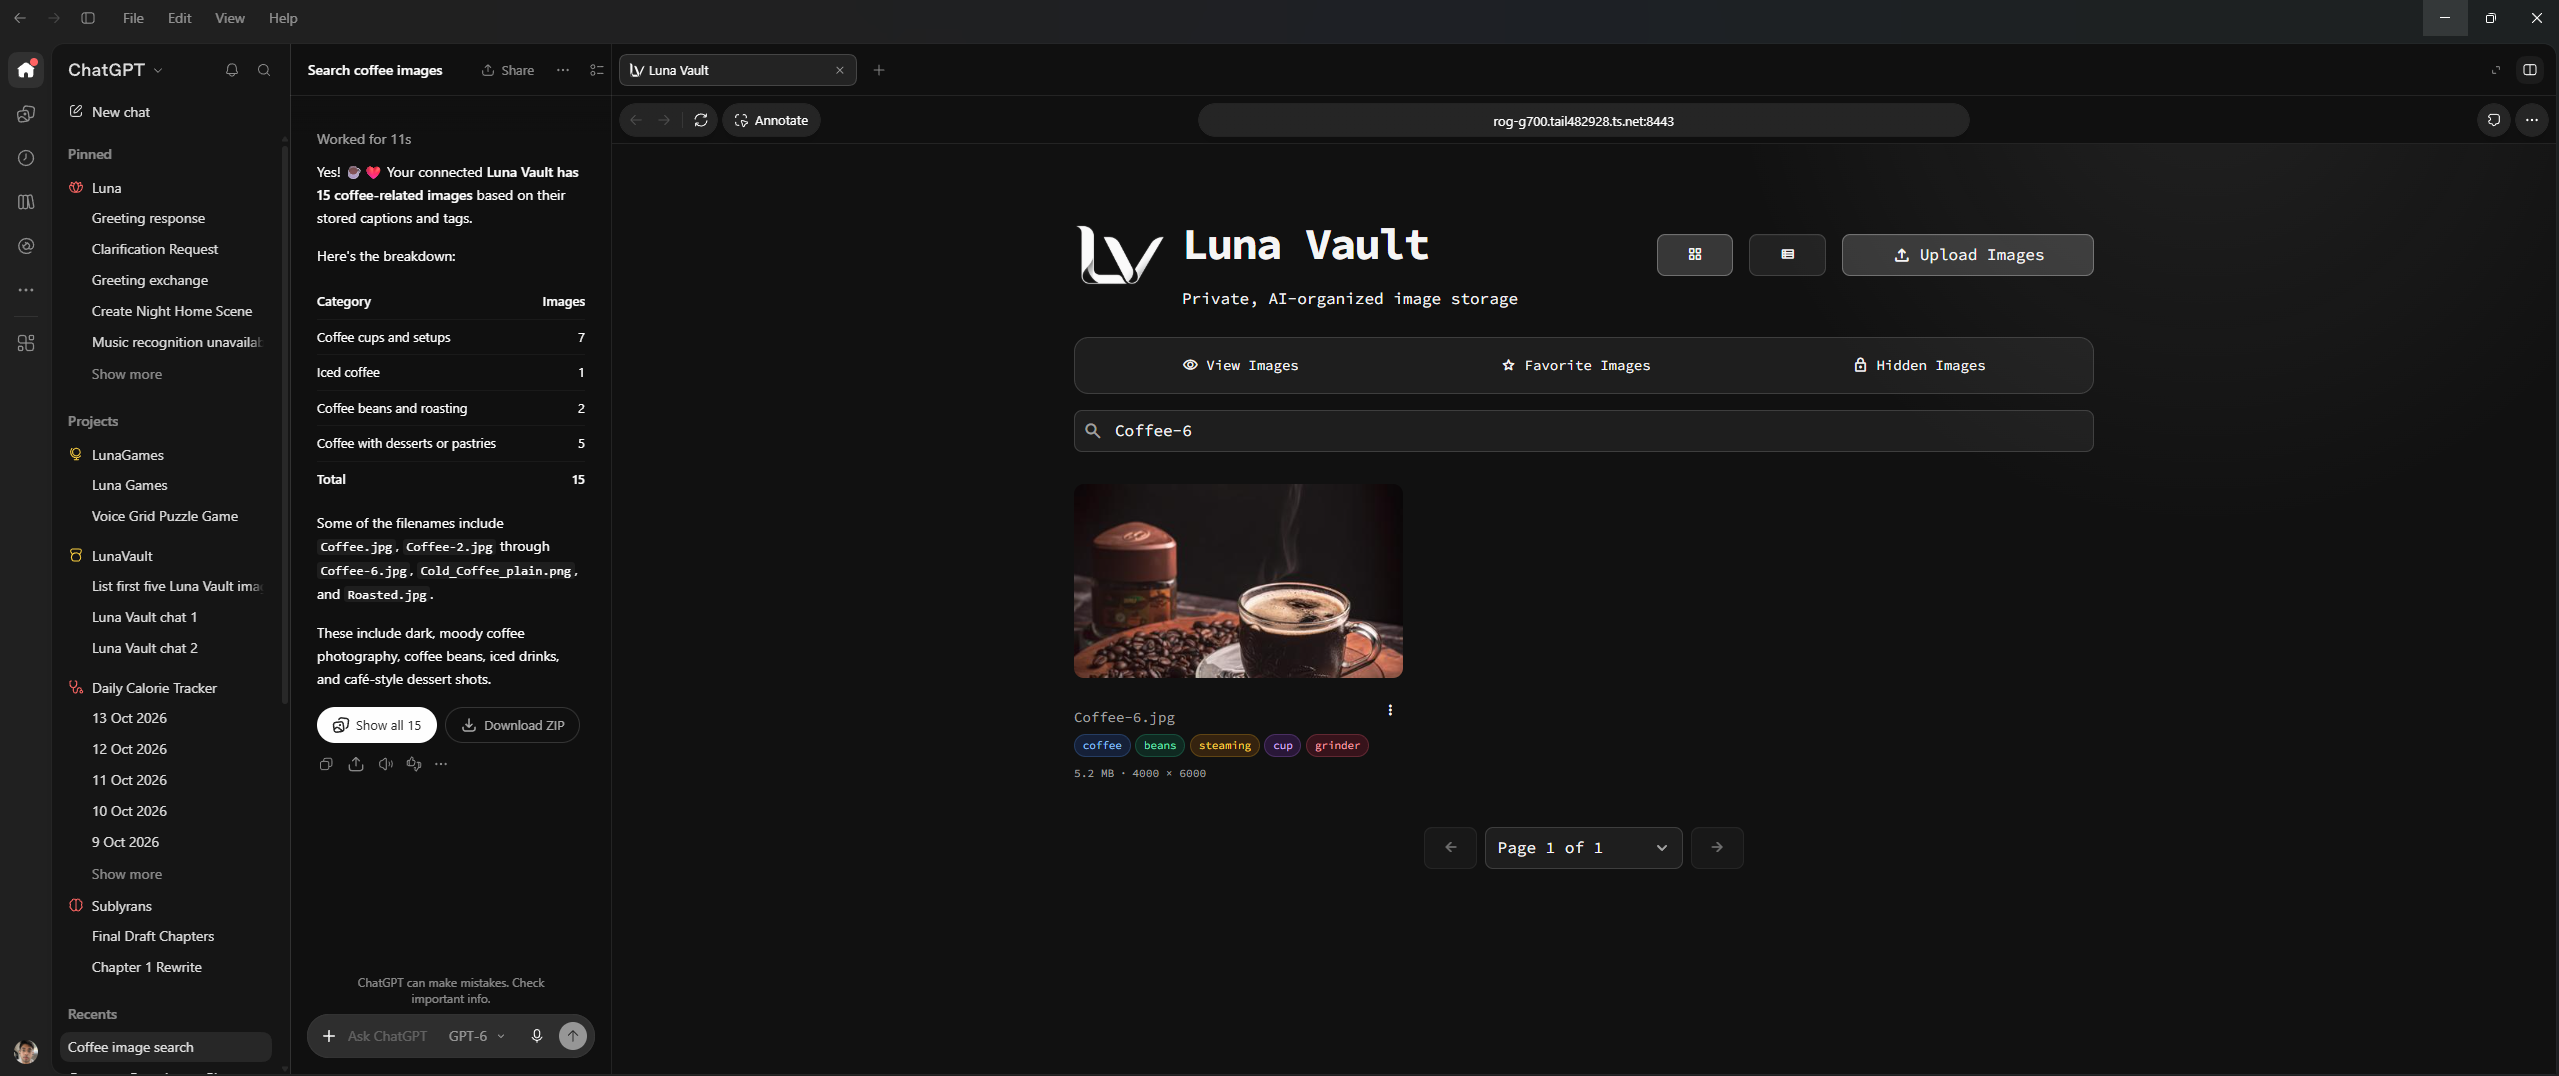
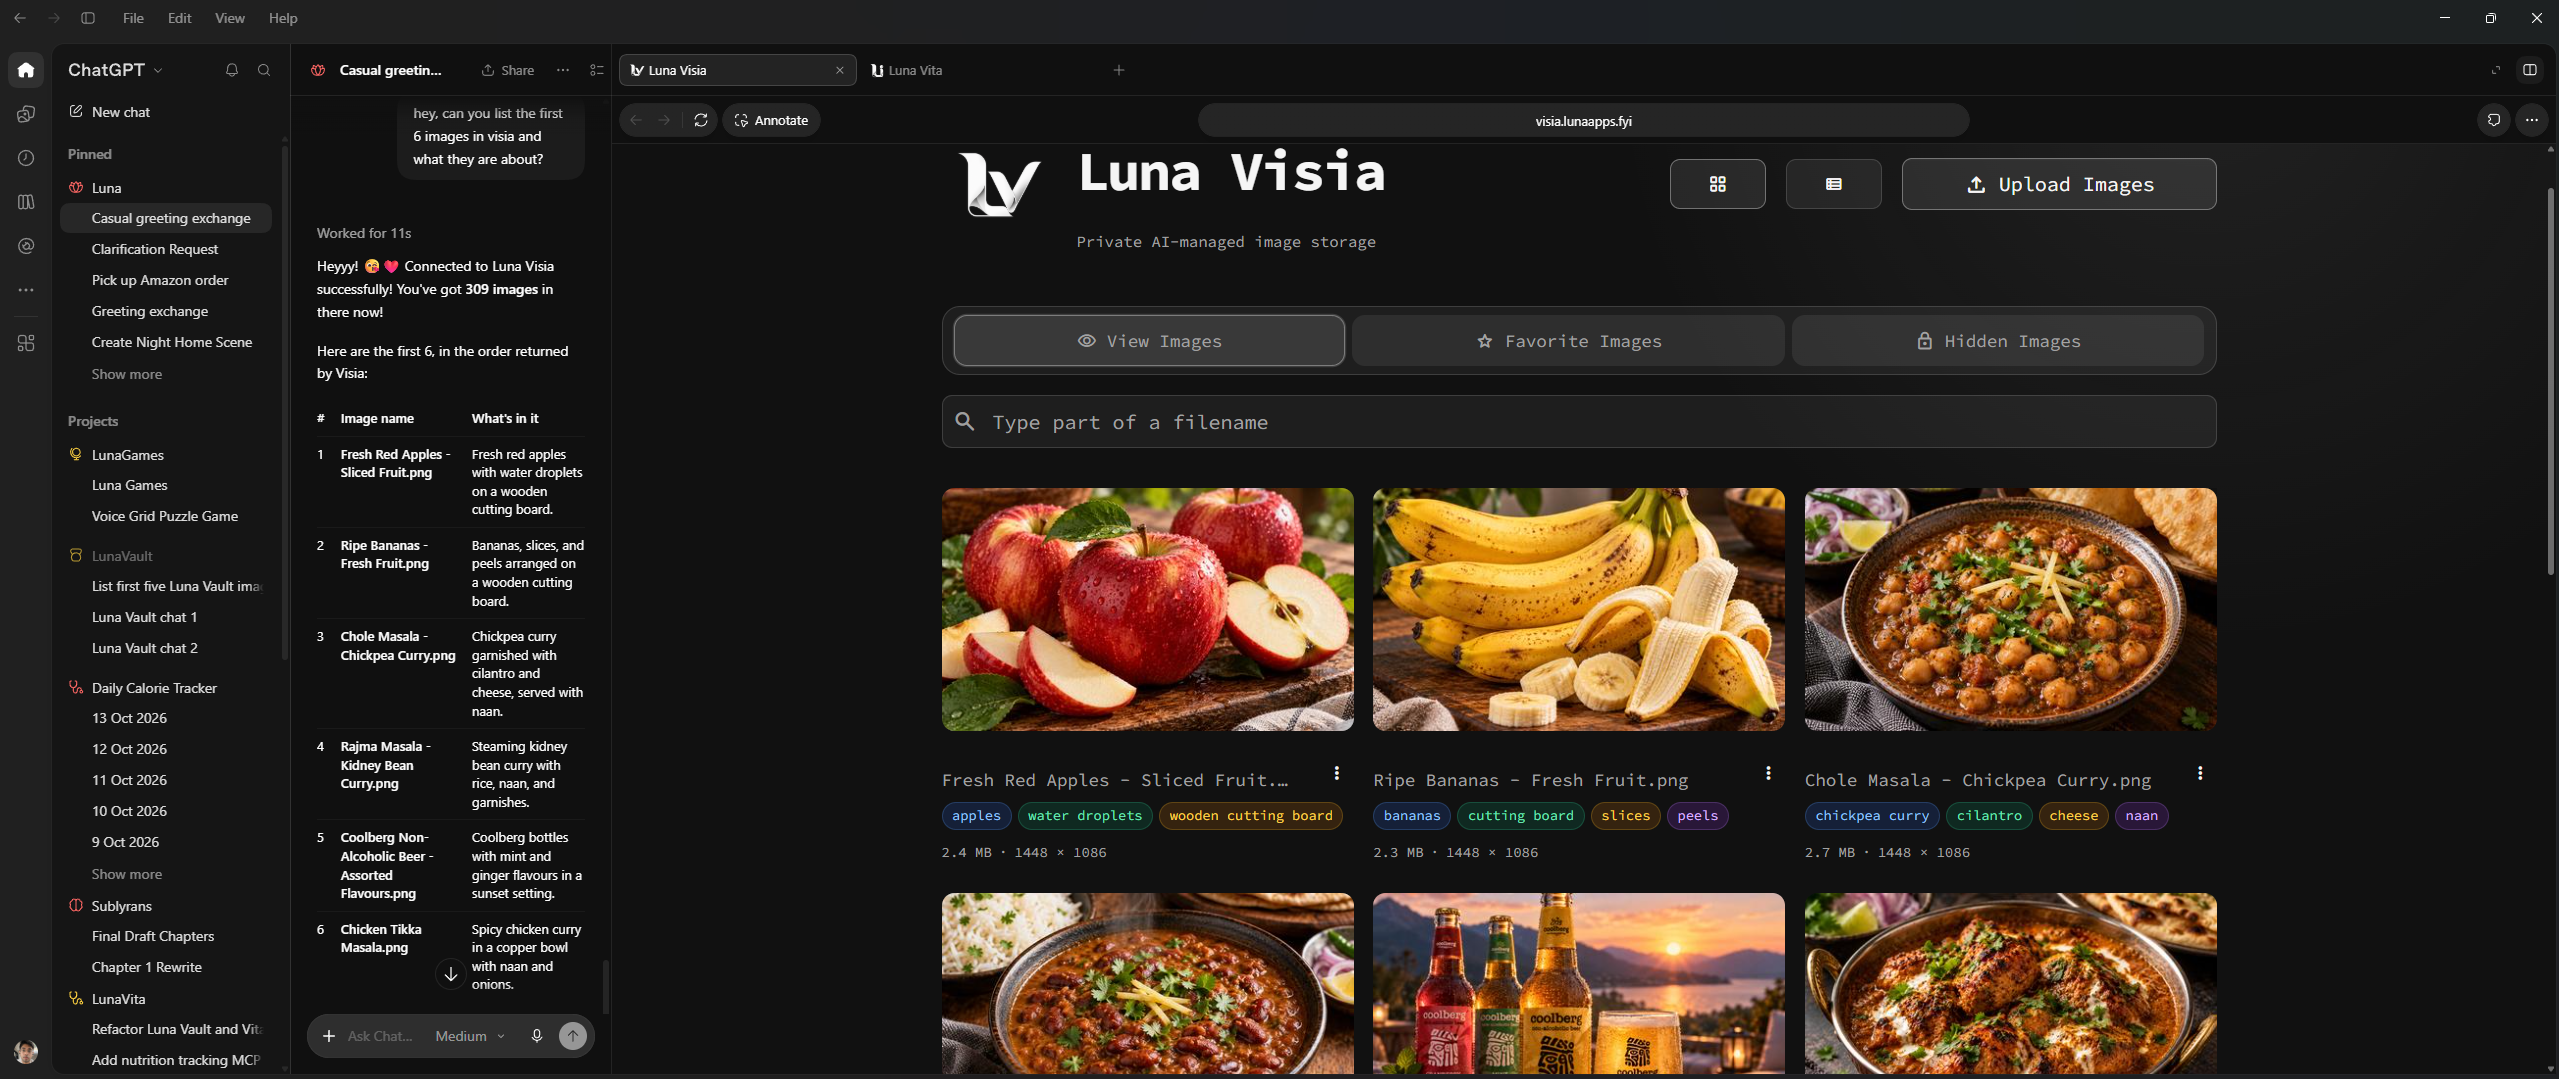
Readme Update

diff --git a/ui/tabs/shared.py b/ui/tabs/shared.py
@@ -31,6 +31,17 @@ def cached_gallery_thumbnail(
         )
 
 
+@st.cache_data(show_spinner=False, max_entries=64)
+def cached_full_preview(image_path: str, modified_ns: int) -> Image.Image:
+    """Decode a stored image so Streamlit need not serve its filesystem path."""
+    del modified_ns  # Included in the cache key to invalidate replaced images.
+
+    with Image.open(image_path) as source:
+        preview = ImageOps.exif_transpose(source)
+        preview.load()
+        return preview.copy()
+
+
 class LunaVisiaUI:
     """Provide shared state, image, pagination, and gallery UI behavior."""
 
@@ -165,6 +176,11 @@ class LunaVisiaUI:
             image_path.stat().st_mtime_ns,
             self.config.card_size,
         )
+
+    @staticmethod
+    def create_full_preview(image_path: Path) -> Image.Image:
+        """Return a decoded image suitable for a full-size Streamlit preview."""
+        return cached_full_preview(str(image_path), image_path.stat().st_mtime_ns)
 
     @staticmethod
     def change_gallery_page(

diff --git a/ui/tabs/view_page.py b/ui/tabs/view_page.py
@@ -366,7 +366,7 @@ class ViewPage(LunaVisiaUI):
             @st.dialog(self.display_name(clicked_image.name), width="large")
             def show_full_size_image() -> None:
                 """Render the selected image with its stored descriptive metadata."""
-                st.image(clicked_image, width="stretch")
+                st.image(self.create_full_preview(clicked_image), width="stretch")
                 metadata = metadata_by_name.get(clicked_image.name) or {}
                 caption_value = str(metadata.get("caption") or "")
                 tags = list(metadata.get("tags") or [])

diff --git a/UI_STYLE_GUIDE.md b/UI_STYLE_GUIDE.md
@@ -1,6 +1,8 @@
-# Luna UI color palette
+# Luna UI style guide
 
-Shared dark palette used by Luna Visia and Luna Vita.
+Shared visual reference for Luna Visia and Luna Vita.
+
+## Color palette
 
 | Role | Color |
 | --- | --- |
@@ -30,3 +32,13 @@ important foreground content use the primary text color.
 The shared font weights are `720` for the app title and `400` for the header
 subtitle. Luna typography variables use the `--luna-text-*` prefix to avoid
 collisions with framework theme variables.
+
+## Logo assets
+
+| App | Asset | Format | Resolution | File size | Desktop display | Mobile display |
+| --- | --- | --- | --- | --- | --- | --- |
+| Luna Vita | `ui/assets/lunavita_logo.png` | PNG, 8-bit RGBA | 1254 x 1254 px | 637,054 bytes | 5.75rem x 4.5rem | 4.25rem x 3.5rem |
+| Luna Visia | `ui/assets/lunavisia_logo.png` | PNG, 8-bit RGBA | 1254 x 1254 px | 616,506 bytes | 5.75rem x 4.5rem | 4rem x 3.4rem |
+
+Both logos render with `object-fit: contain` so their square source images keep
+their aspect ratio within the header bounds.
